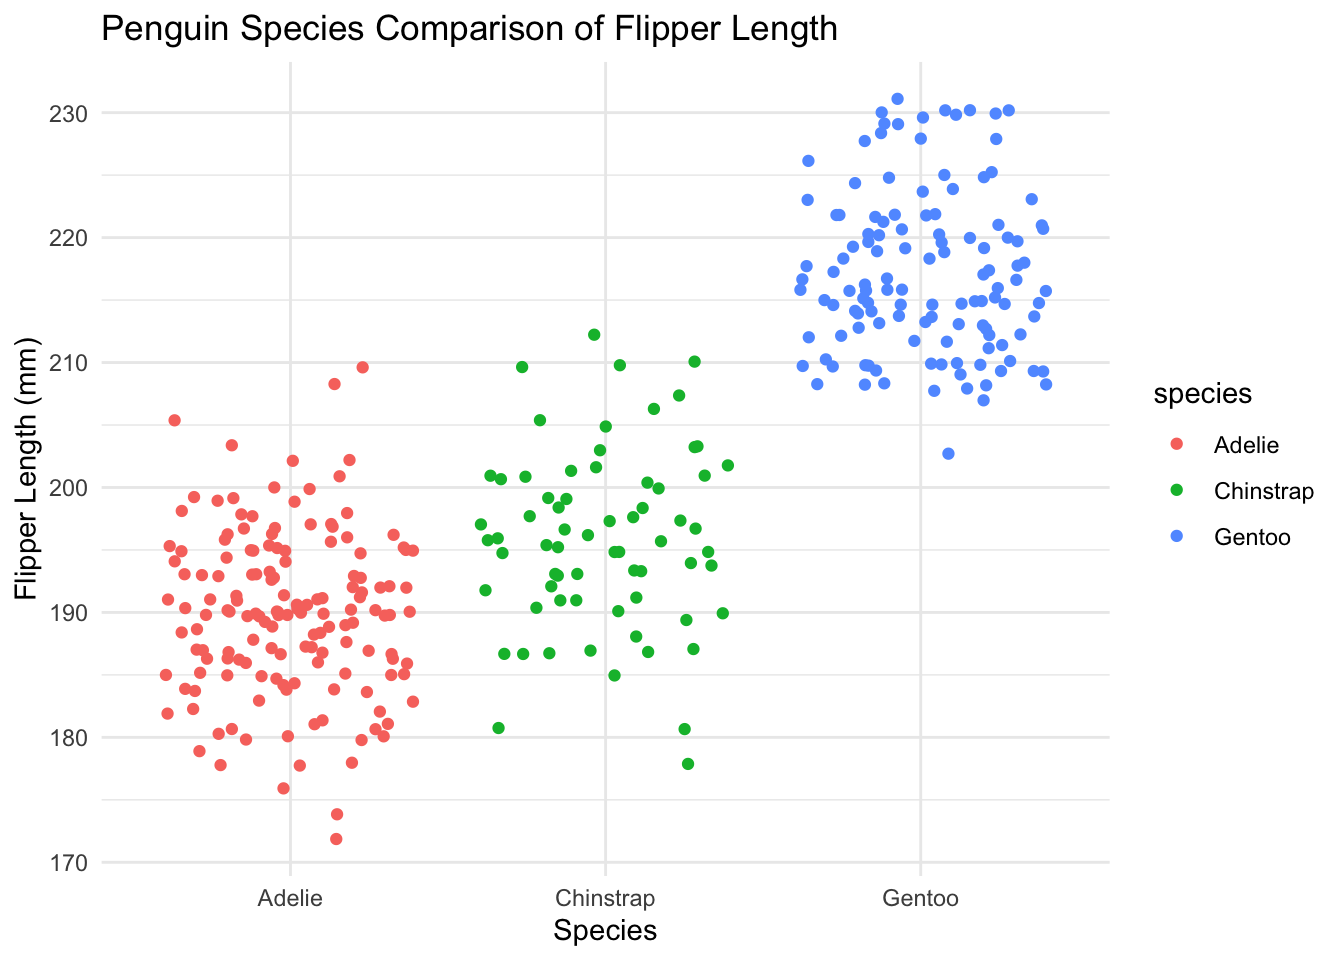
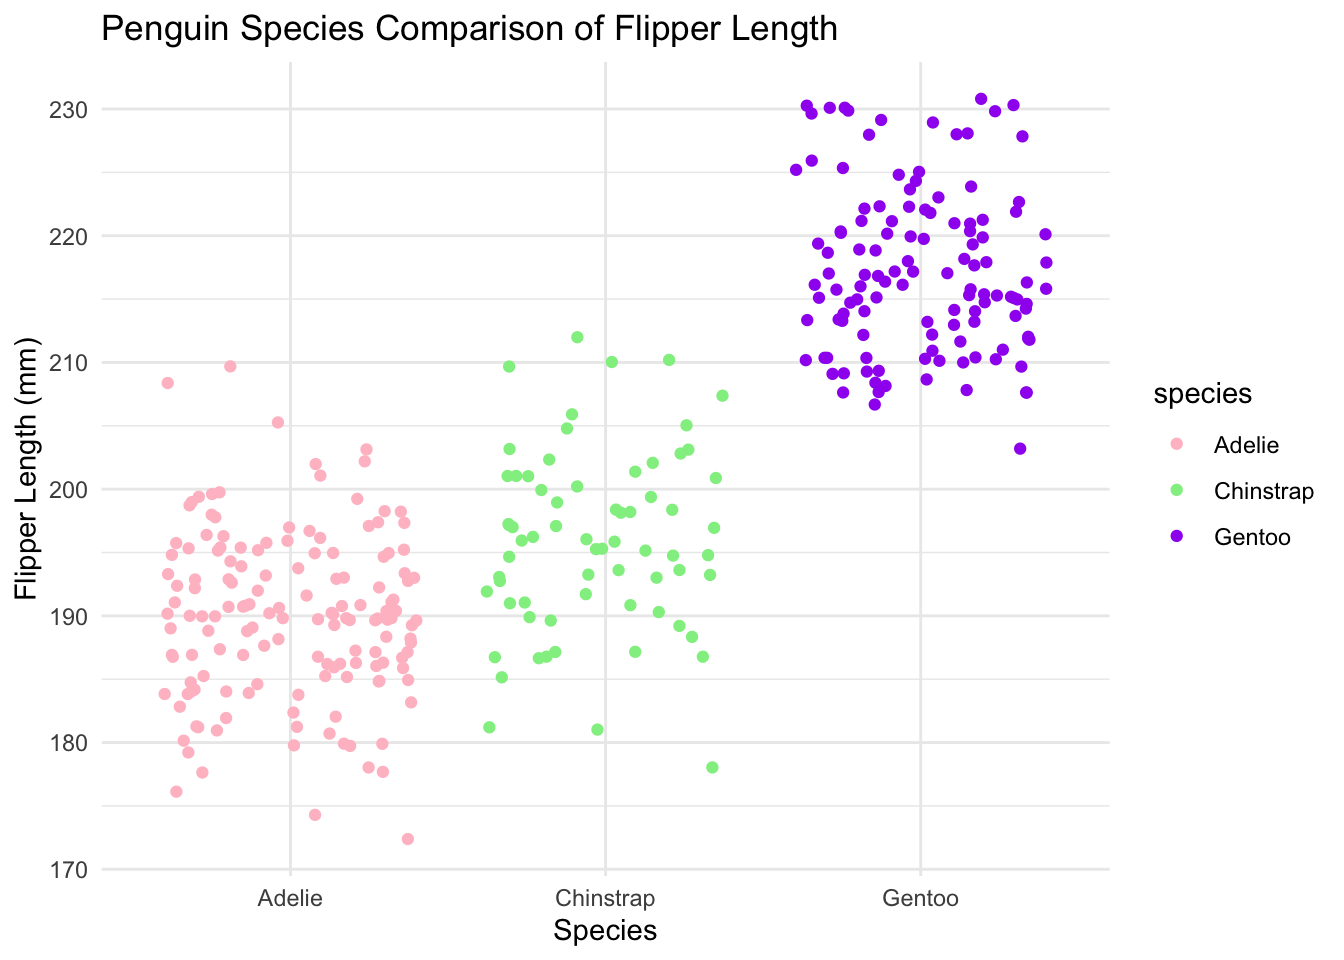
figure 2 colors

diff --git a/eds212-day2-activities.html b/eds212-day2-activities.html
@@ -228,10 +228,11 @@ The following objects are masked from 'package:datasets':
 <div class="sourceCode cell-code" id="cb13"><pre class="sourceCode r code-with-copy"><code class="sourceCode r"><span id="cb13-1"><a href="#cb13-1" aria-hidden="true" tabindex="-1"></a><span class="co"># new jitter plot</span></span>
 <span id="cb13-2"><a href="#cb13-2" aria-hidden="true" tabindex="-1"></a><span class="fu">ggplot</span>(<span class="at">data =</span> penguins, <span class="fu">aes</span>(<span class="at">x =</span> species, <span class="at">y =</span> flipper_length_mm)) <span class="sc">+</span> </span>
 <span id="cb13-3"><a href="#cb13-3" aria-hidden="true" tabindex="-1"></a>  <span class="fu">geom_jitter</span>(<span class="fu">aes</span>(<span class="at">color =</span> species)) <span class="sc">+</span></span>
-<span id="cb13-4"><a href="#cb13-4" aria-hidden="true" tabindex="-1"></a>  <span class="fu">labs</span>(<span class="at">x =</span> <span class="st">"Species"</span>,</span>
-<span id="cb13-5"><a href="#cb13-5" aria-hidden="true" tabindex="-1"></a>       <span class="at">y =</span> <span class="st">"Flipper Length (mm)"</span>,</span>
-<span id="cb13-6"><a href="#cb13-6" aria-hidden="true" tabindex="-1"></a>       <span class="at">title =</span> <span class="st">"Penguin Species Comparison of Flipper Length"</span>) <span class="sc">+</span> </span>
-<span id="cb13-7"><a href="#cb13-7" aria-hidden="true" tabindex="-1"></a>  <span class="fu">theme_minimal</span>()</span></code><button title="Copy to Clipboard" class="code-copy-button"><i class="bi"></i></button></pre></div>
+<span id="cb13-4"><a href="#cb13-4" aria-hidden="true" tabindex="-1"></a>  <span class="fu">scale_color_manual</span>(<span class="at">values =</span> <span class="fu">c</span>(<span class="st">"pink"</span>, <span class="st">"lightgreen"</span>, <span class="st">"purple"</span>)) <span class="sc">+</span></span>
+<span id="cb13-5"><a href="#cb13-5" aria-hidden="true" tabindex="-1"></a>  <span class="fu">labs</span>(<span class="at">x =</span> <span class="st">"Species"</span>,</span>
+<span id="cb13-6"><a href="#cb13-6" aria-hidden="true" tabindex="-1"></a>       <span class="at">y =</span> <span class="st">"Flipper Length (mm)"</span>,</span>
+<span id="cb13-7"><a href="#cb13-7" aria-hidden="true" tabindex="-1"></a>       <span class="at">title =</span> <span class="st">"Penguin Species Comparison of Flipper Length"</span>) <span class="sc">+</span> </span>
+<span id="cb13-8"><a href="#cb13-8" aria-hidden="true" tabindex="-1"></a>  <span class="fu">theme_minimal</span>()</span></code><button title="Copy to Clipboard" class="code-copy-button"><i class="bi"></i></button></pre></div>
 <div class="cell-output cell-output-stderr">
 <pre><code>Warning: Removed 2 rows containing missing values or values outside the scale range
 (`geom_point()`).</code></pre>
